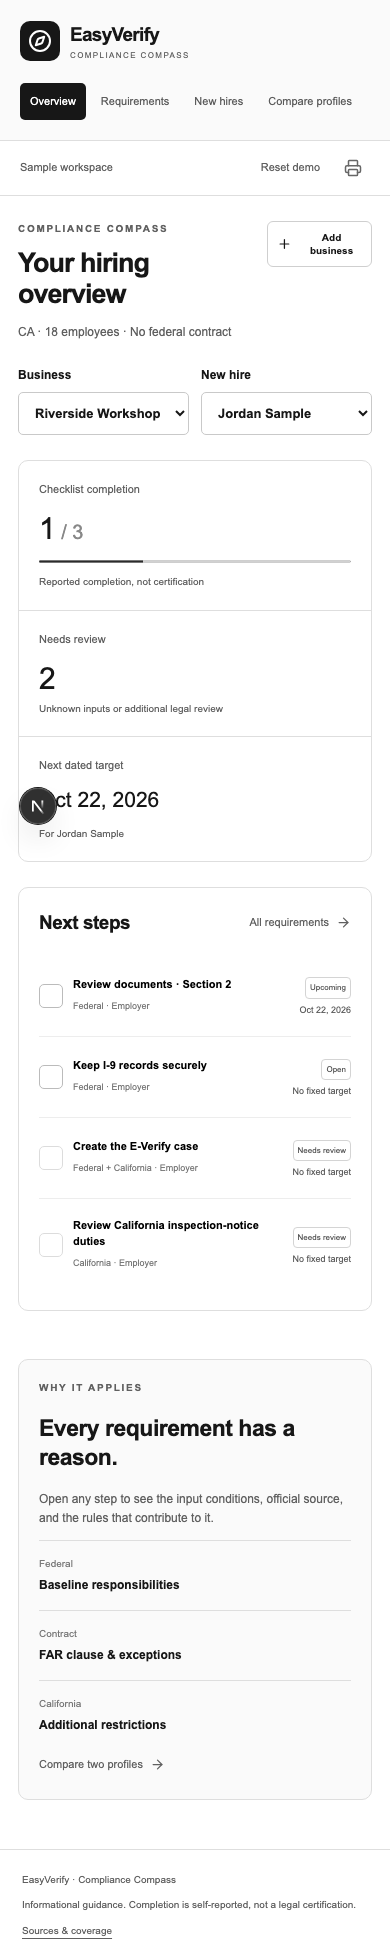
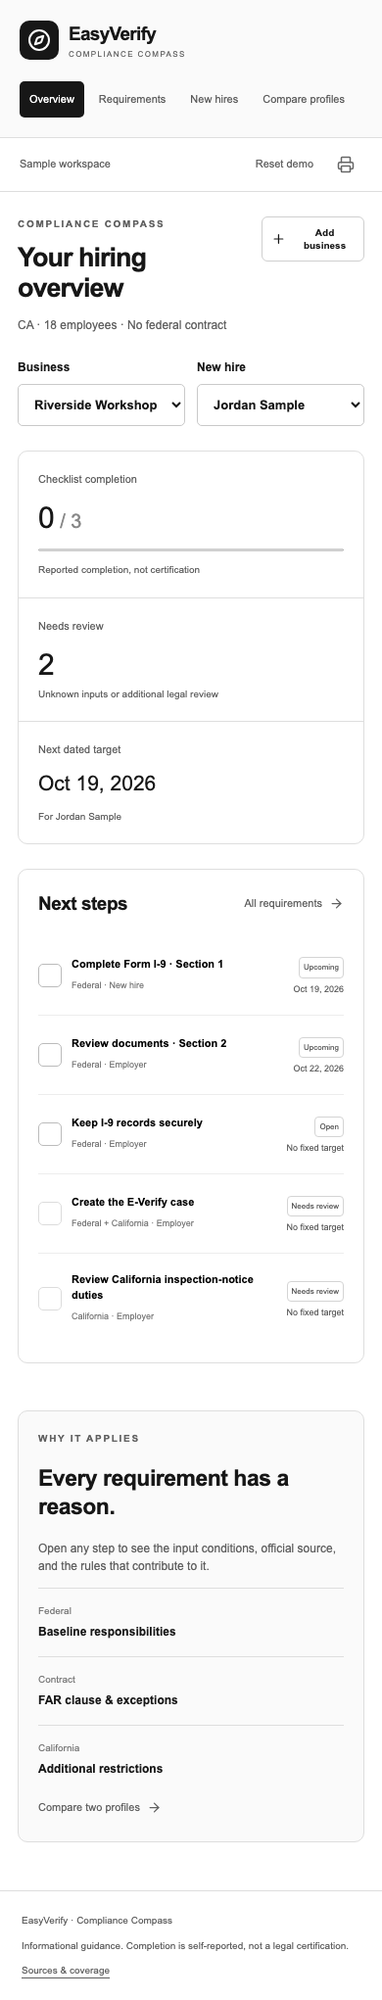
docs: record final deployment and verified delivery status

diff --git a/VERIFICATION.md b/VERIFICATION.md
@@ -24,8 +24,17 @@ Deployment URLs and final GitHub CI results will be appended after deployment ch
 
 - Repository: https://github.com/ayyappanadithiyakrishna-oss/easyverify (private).
 - Implementation PR #1 was merged after GitHub CI passed for reviewed commit `80d132db47d2745f04cec63bf601a0f55f3bee5a`.
-- Public domain: https://easyverify-ayyappanadithiyakrishna-9205s-projects.vercel.app
-- Hosted demo: https://easyverify-ayyappanadithiyakrishna-9205s-projects.vercel.app/demo
+- Public domain: https://easyverify.vercel.app
+- Hosted demo: https://easyverify.vercel.app/demo
 - Production deployment `dpl_X6JYNfr7XDsmPxr3oRorKt1YtdFB` reached READY. Hosted demo rendered, completion persisted after reload, and there were no browser console errors during the smoke test.
 - The private repository could not be connected for automatic Vercel Git deployments; deployment was performed directly from a frozen Git archive. Future Git pushes alone will not deploy until repository access is granted to Vercel.
 - A subsequent delivery refinement adds an explicit baseline explanation and a verified program timeline. It will be deployed and checked separately; the original production check above is preserved as evidence.
+
+## Final release
+
+- Delivery PR #2 passed GitHub CI for reviewed source commit `796457e669aeebde08da357bb2f94014e8ebad33` and was merged into main.
+- Final production deployment: `dpl_21cGxCUeUn7MX96dibwCZLCuy3VR`, status READY; https://easyverify.vercel.app.
+- Final suite: 37 passing tests (8 dates, 16 engine/validation, 11 database, 2 callback redirects).
+- Final production demo renders without console errors; the 390px layout has no horizontal document overflow. The reviewed preview shows the explicit baseline trace and all six verified historical milestones.
+- The production account endpoint returns HTTP 503 with “Account services are not configured.” Registration is disabled with an explanatory message. This is the actual remaining external dependency, not a verified live backend.
+- Vercel Git linking failed for the private repository; the current release was deployed from an immutable Git archive. No automatic Git deployment is claimed.

diff --git a/README.md b/README.md
@@ -1,5 +1,7 @@
 # EasyVerify — Compliance Compass
 
+Public site: https://easyverify.vercel.app · Working demo: https://easyverify.vercel.app/demo
+
 Employment-verification guidance and onboarding tracking for Inland Empire small businesses. Next.js 16.4, React 19.3, TypeScript, and Supabase.
 
 ## Run locally
